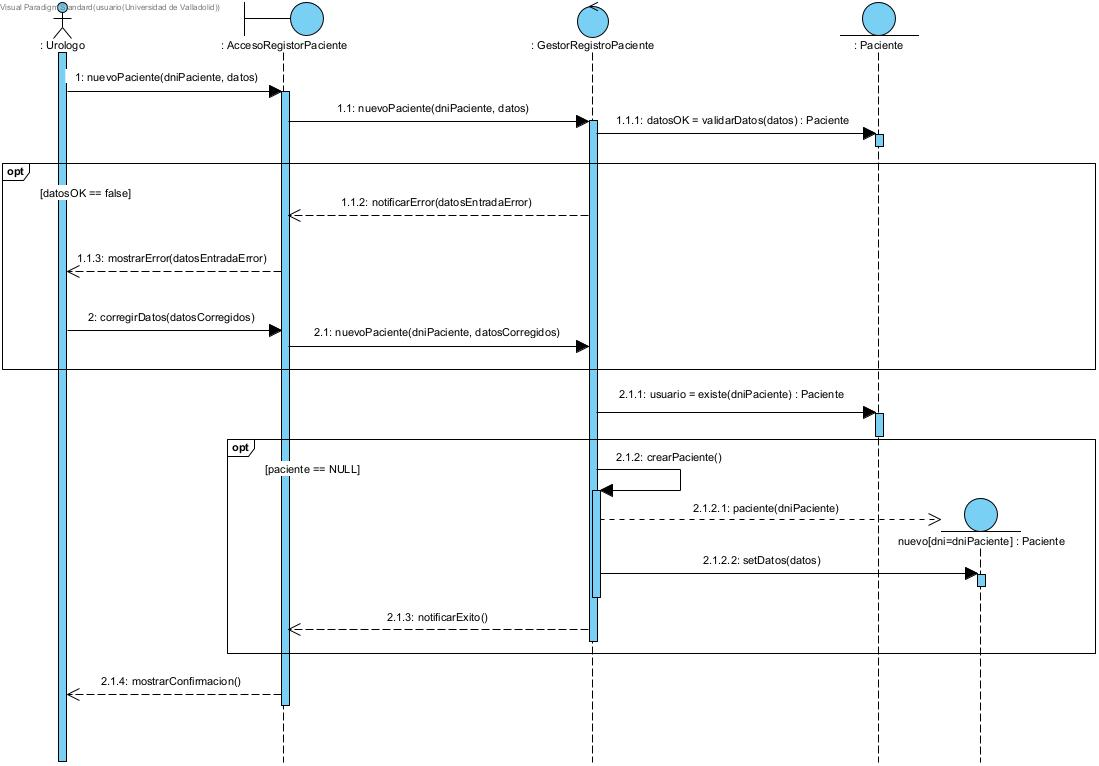
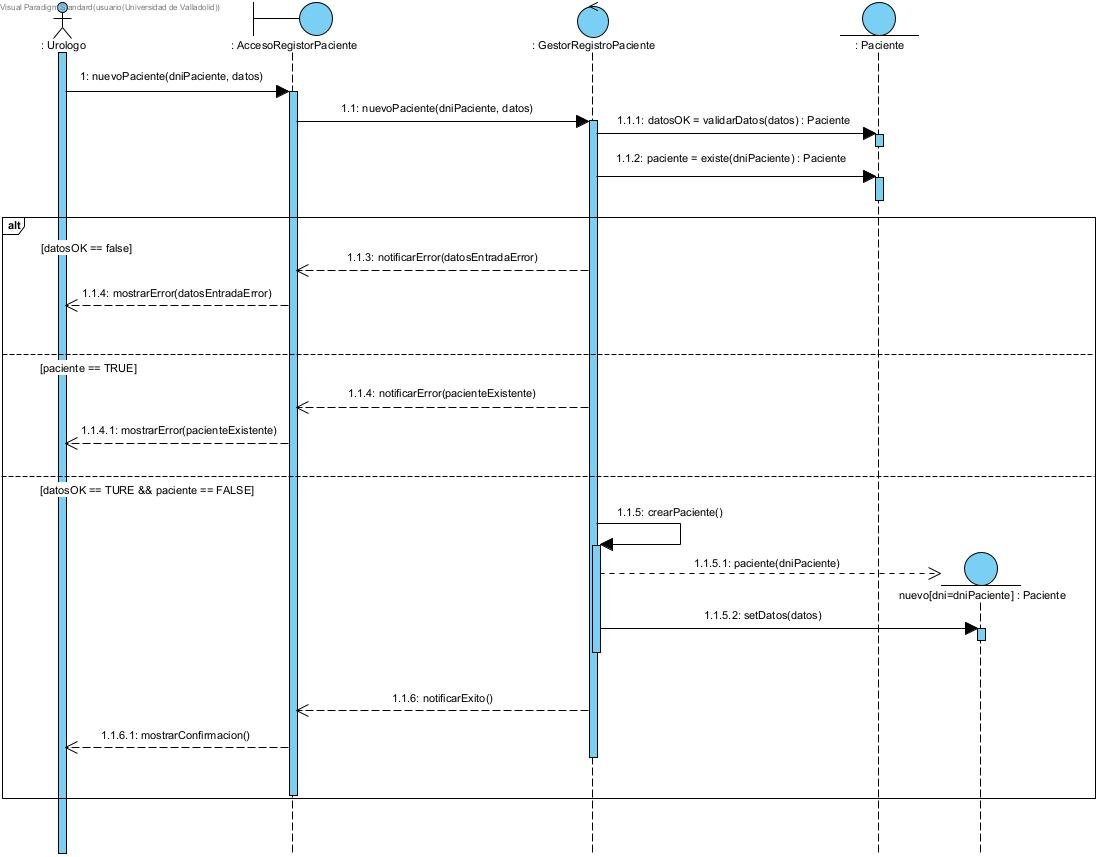
fix : Corregidos errores en el diagrama de secuencia

diff --git a/README.md b/README.md
@@ -124,13 +124,13 @@ Durante el análisis del modelo de dominio se han tomado las siguientes decision
 - CU01 - Iniciar sesión
 ![BCE CU01](docs/diagramas/CU01/Diagrama%20de%20analisis%20BCE%20-%20CU01.png)
 El diagrama BCE de este caso de uso se compone del Actor Especialista, aquel que quiere iniciar sesion, relacionado con la clase Boundary AccesoInicioSesion que se encarga de la interacción entre el actor y el sistema, la clase Controller GestorInicioSesion y las clases Entity Usuario que es el usuario del sistema del Especialista y la Entity Especialista, que es la información asociada a dicho usuario sobre el especialista (datos personales, rol, etc)
-![BCE CU02](docs/diagramas/CU02/Diagrama%20de%20analisis%20BCE%20-%20CU02.png)
+![BCE CU02](docs/diagramas/CU02/Diagrama%20de%20analisis%20BCE%20-%20CU02.jpg)
 El diagrama BCE de este caso de uso se compone del Actor Urólogo, aquel que quiere registrar al paciente, relacionado con la clase Boundary AccesoRegistroPaciente que se encarga de la interacción entre el actor y el sistema, la clase Controller GestorRegistroPaciente y la clase Entity Paciente.
 ## 4.3 Diagramas de secuencia
 - CU01 - Iniciar sesión:
 ![Secuencia CU01](docs/diagramas/CU01/Diagrama%20de%20secuencia%20-%20CU01.png)
 - CU02 - Registrar paciente:
-![Secuencia CU02](docs/diagramas/CU02/Diagrama%20de%20secuencia%20-%20CU02.png)
+![Secuencia CU02](docs/diagramas/CU02/Diagrama%20de%20secuencia%20-%20CU02.jpg)
 ## 4.4 Comentarios
 Decisiones importantes.
 ---
